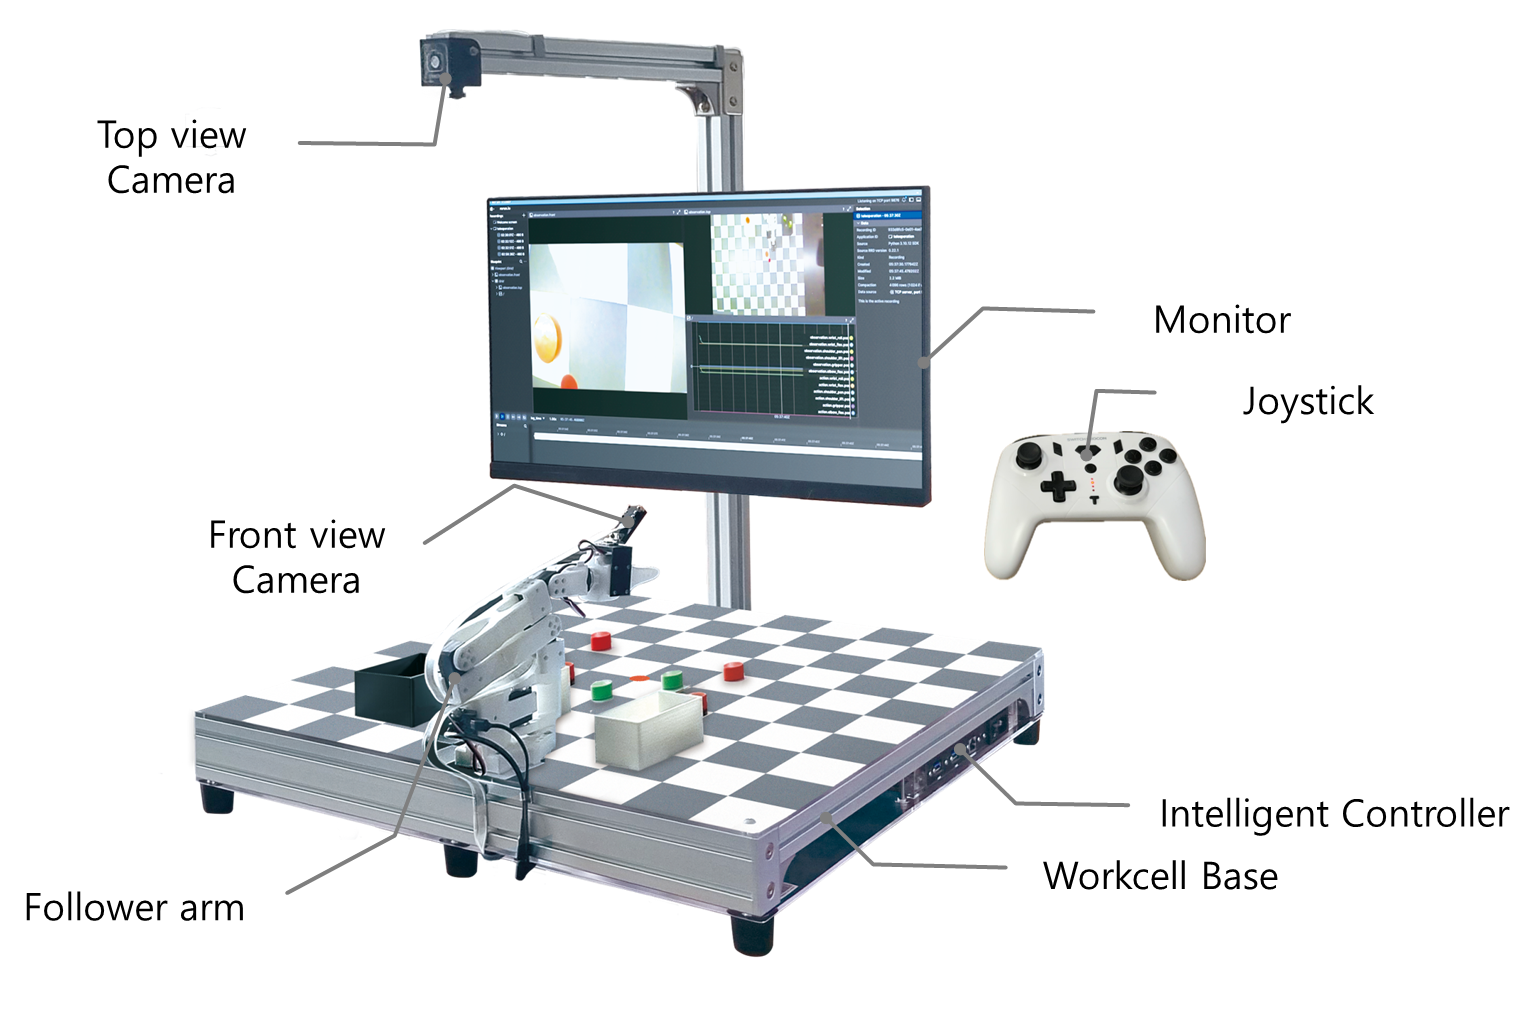
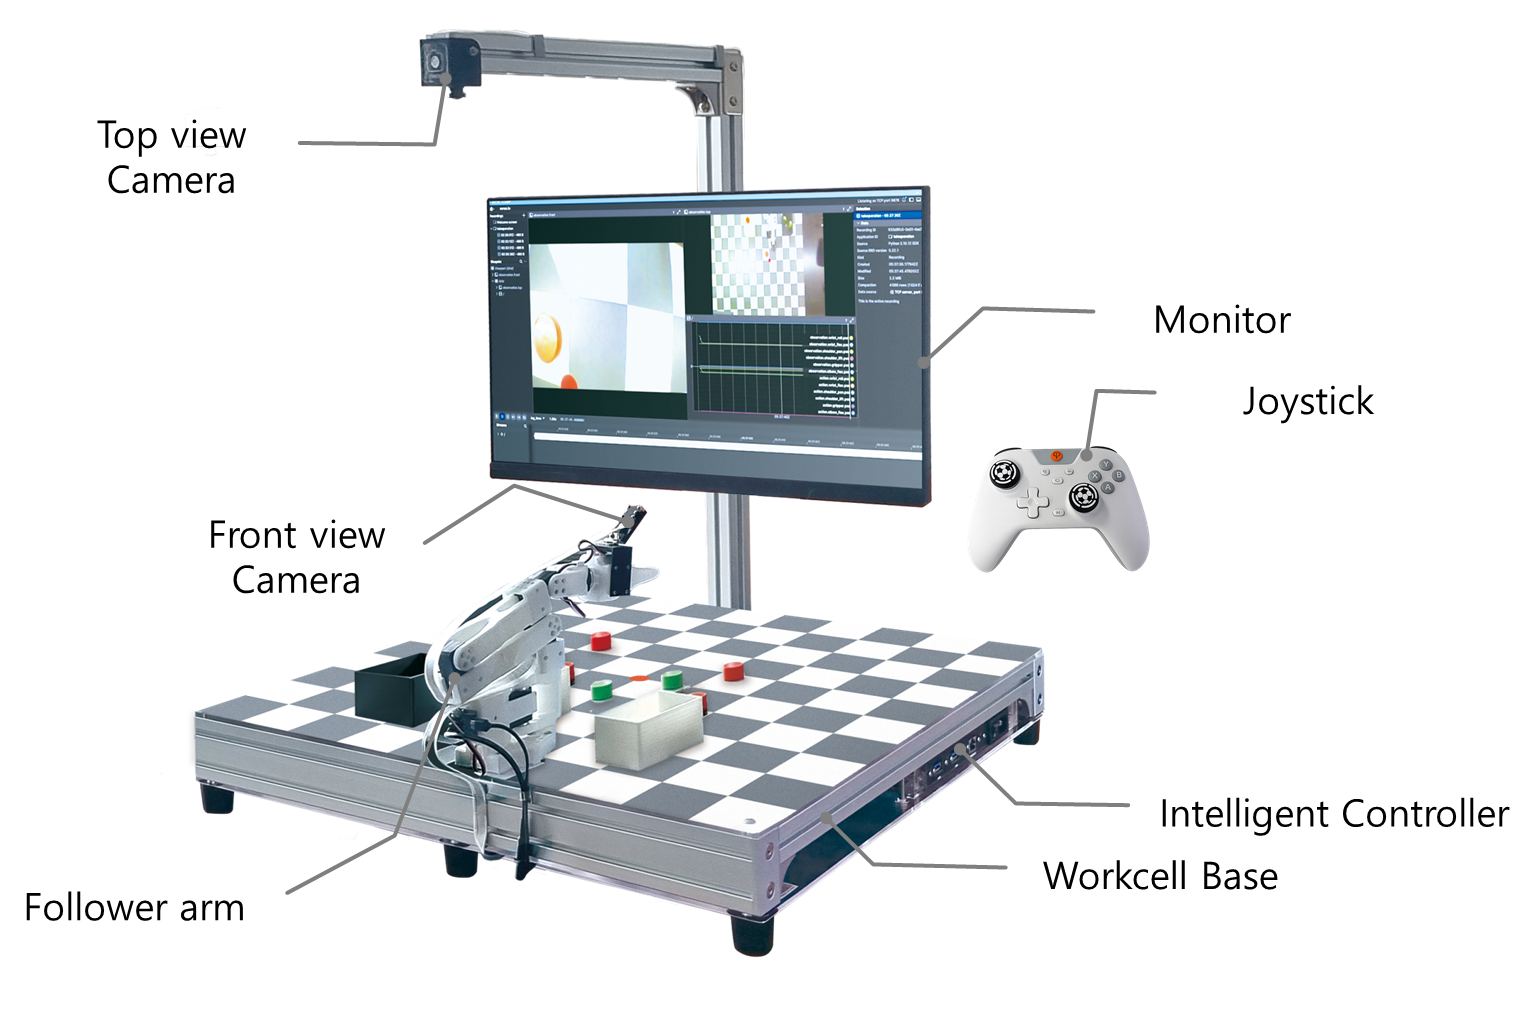
Update

Changed region(s): [[0.6438, 0.4267, 0.7971, 0.5792]]

diff --git a/Chapter09. Classify Tokens/9-2. Dataset & Training.md b/Chapter09. Classify Tokens/9-2. Dataset & Training.md
@@ -465,41 +465,35 @@ print(stats)
 
 dataset_stats_classification.json 파일을 구글 드라이브에 업로드 해줍니다. 그 후, Jetson 환경으로 돌아와 업로드했던 파일을 `/home/soda/physicai_arm_ws/src/physicai_arm/physicai_arm` 폴더에 복사해 줍니다.
 
-Jetson 환경에 LeRobot이 다운되어 있지 않다면 아래 LeRobot 다운로드 하기를 열어서 실행해주시기 바랍니다. 설치되어 있다면 inference 노드 실행을 열어서 실행해주시기 바랍니다.
+Jetson 환경에 LeRobot이 다운되어 있지 않다면 아래 LeRobot 설치를 진행해주시기 바랍니다.
 
-<details>
-<summary>LeRobot 다운로드 하기</summary>
 
-환경 설정 충돌을 방지하기 위해 가상환경을 사용하여 다운로드하도록 하겠습니다.
-
-```sh
-sudo apt install python3-venv
-python3 -m venv ~/lerobot_infer_env
-source ~/lerobot_infer_env/bin/activate
-```
-
-가상환경이 적용되었는지 확인하겠습니다.
-
-```sh
-which python
-```
-
-`/home/soda/lerobot_infer_env/bin/python` 라는 메시지가 나오면 성공입니다. 다르게 뜨는 경우 위에서 source를 한번 더 실행해주세요. 가상환경이 설정되었으면 LeRobot을 설치하겠습니다.
+LeRobot을 설치하겠습니다.
 
 ```sh
 pip install "lerobot==0.4.4"
 ```
 
-LeRobot 설치가 끝나면 inference 노드를 실행해보겠습니다. 가상환경이므로 entry point로 실행하기 보다는 직접 실행을 하겠습니다. 
-
-```sh
-python inference_node.py
-```
 
 </details>
 
 <br>
 
+
+노드를 실행하기 전 bringup 런치 파일은 실행 중이어야 합니다.
+
+```sh
+ros2 launch physicai_arm bringup.launch.py
+```
+
+새 터미널을 열고 추론 노드를 실행해줍니다.
+
+```sh
+ros2 run physicai_arm inference_node
+```
+
+
+추론에 실패했거나 더 자연스러운 동작을 원할 경우, 데이터셋의 개수를 늘리거나 파라미터를 변경하며 학습을 다시 진행하시기 바랍니다.
 
 <details>
 <summary>inference 노드 실행</summary>

diff --git a/Chapter10. Stack Tokens/10-2. Dataset & Training.md b/Chapter10. Stack Tokens/10-2. Dataset & Training.md
@@ -463,44 +463,20 @@ print(stats)
 
 dataset_stats_stacking.json 파일을 구글 드라이브에 업로드 해줍니다. 그 후, Jetson 환경으로 돌아와 업로드했던 파일을 `/home/soda/physicai_arm_ws/src/physicai_arm/physicai_arm` 폴더에 복사해 줍니다.
 
-Jetson 환경에 LeRobot이 다운되어 있지 않다면 아래 LeRobot 다운로드 하기를 열어서 실행해주시기 바랍니다. 설치되어 있다면 inference 노드 실행을 열어서 실행해주시기 바랍니다.
+Jetson 환경에 LeRobot이 다운되어 있지 않다면 아래 LeRobot 설치를 진행해주시기 바랍니다.
 
-<details>
-<summary>LeRobot 다운로드 하기</summary>
 
-환경 설정 충돌을 방지하기 위해 가상환경을 사용하여 다운로드하도록 하겠습니다.
-
-```sh
-sudo apt install python3-venv
-python3 -m venv ~/lerobot_infer_env
-source ~/lerobot_infer_env/bin/activate
-```
-
-가상환경이 적용되었는지 확인하겠습니다.
-
-```sh
-which python
-```
-
-`/home/soda/lerobot_infer_env/bin/python` 라는 메시지가 나오면 성공입니다. 다르게 뜨는 경우 위에서 source를 한번 더 실행해주세요. 가상환경이 설정되었으면 LeRobot을 설치하겠습니다.
+LeRobot을 설치하겠습니다.
 
 ```sh
 pip install "lerobot==0.4.4"
 ```
 
-LeRobot 설치가 끝나면 inference 노드를 실행해보겠습니다. 가상환경이므로 entry point로 실행하기 보다는 직접 실행을 하겠습니다. 
-
-```sh
-python inference_node.py
-```
 
 </details>
 
 <br>
 
-
-<details>
-<summary>inference 노드 실행</summary>
 
 노드를 실행하기 전 bringup 런치 파일은 실행 중이어야 합니다.
 
@@ -514,7 +490,5 @@ ros2 launch physicai_arm bringup.launch.py
 ros2 run physicai_arm inference_node
 ```
 
-
-</details>
 
 추론에 실패했거나 더 자연스러운 동작을 원할 경우, 데이터셋의 개수를 늘리거나 파라미터를 변경하며 학습을 다시 진행하시기 바랍니다.

diff --git a/Chapter08. Pick the Red Token/8-2. Dataset & Training.md b/Chapter08. Pick the Red Token/8-2. Dataset & Training.md
@@ -501,44 +501,20 @@ print(stats)
 
 dataset_stats.json 파일을 구글 드라이브에 업로드 해줍니다. 그 후, Jetson 환경으로 돌아와 업로드했던 파일을 `/home/soda/physicai_arm_ws/src/physicai_arm/physicai_arm` 폴더에 복사해 줍니다.
 
-Jetson 환경에 LeRobot이 다운되어 있지 않다면 아래 LeRobot 다운로드 하기를 열어서 실행해주시기 바랍니다. 설치되어 있다면 inference 노드 실행을 열어서 실행해주시기 바랍니다.
+Jetson 환경에 LeRobot이 다운되어 있지 않다면 아래 LeRobot 설치를 진행해주시기 바랍니다.
 
-<details>
-<summary>LeRobot 다운로드 하기</summary>
 
-환경 설정 충돌을 방지하기 위해 가상환경을 사용하여 다운로드하도록 하겠습니다.
-
-```sh
-sudo apt install python3-venv
-python3 -m venv ~/lerobot_infer_env
-source ~/lerobot_infer_env/bin/activate
-```
-
-가상환경이 적용되었는지 확인하겠습니다.
-
-```sh
-which python
-```
-
-`/home/soda/lerobot_infer_env/bin/python` 라는 메시지가 나오면 성공입니다. 다르게 뜨는 경우 위에서 source를 한번 더 실행해주세요. 가상환경이 설정되었으면 LeRobot을 설치하겠습니다.
+LeRobot을 설치하겠습니다.
 
 ```sh
 pip install "lerobot==0.4.4"
 ```
 
-LeRobot 설치가 끝나면 inference 노드를 실행해보겠습니다. 가상환경이므로 entry point로 실행하기 보다는 직접 실행을 하겠습니다. 
-
-```sh
-python inference_node.py
-```
 
 </details>
 
 <br>
 
-
-<details>
-<summary>inference 노드 실행</summary>
 
 노드를 실행하기 전 bringup 런치 파일은 실행 중이어야 합니다.
 
@@ -552,7 +528,5 @@ ros2 launch physicai_arm bringup.launch.py
 ros2 run physicai_arm inference_node
 ```
 
-
-</details>
 
 추론에 실패했거나 더 자연스러운 동작을 원할 경우, 데이터셋의 개수를 늘리거나 파라미터를 변경하며 학습을 다시 진행하시기 바랍니다.
